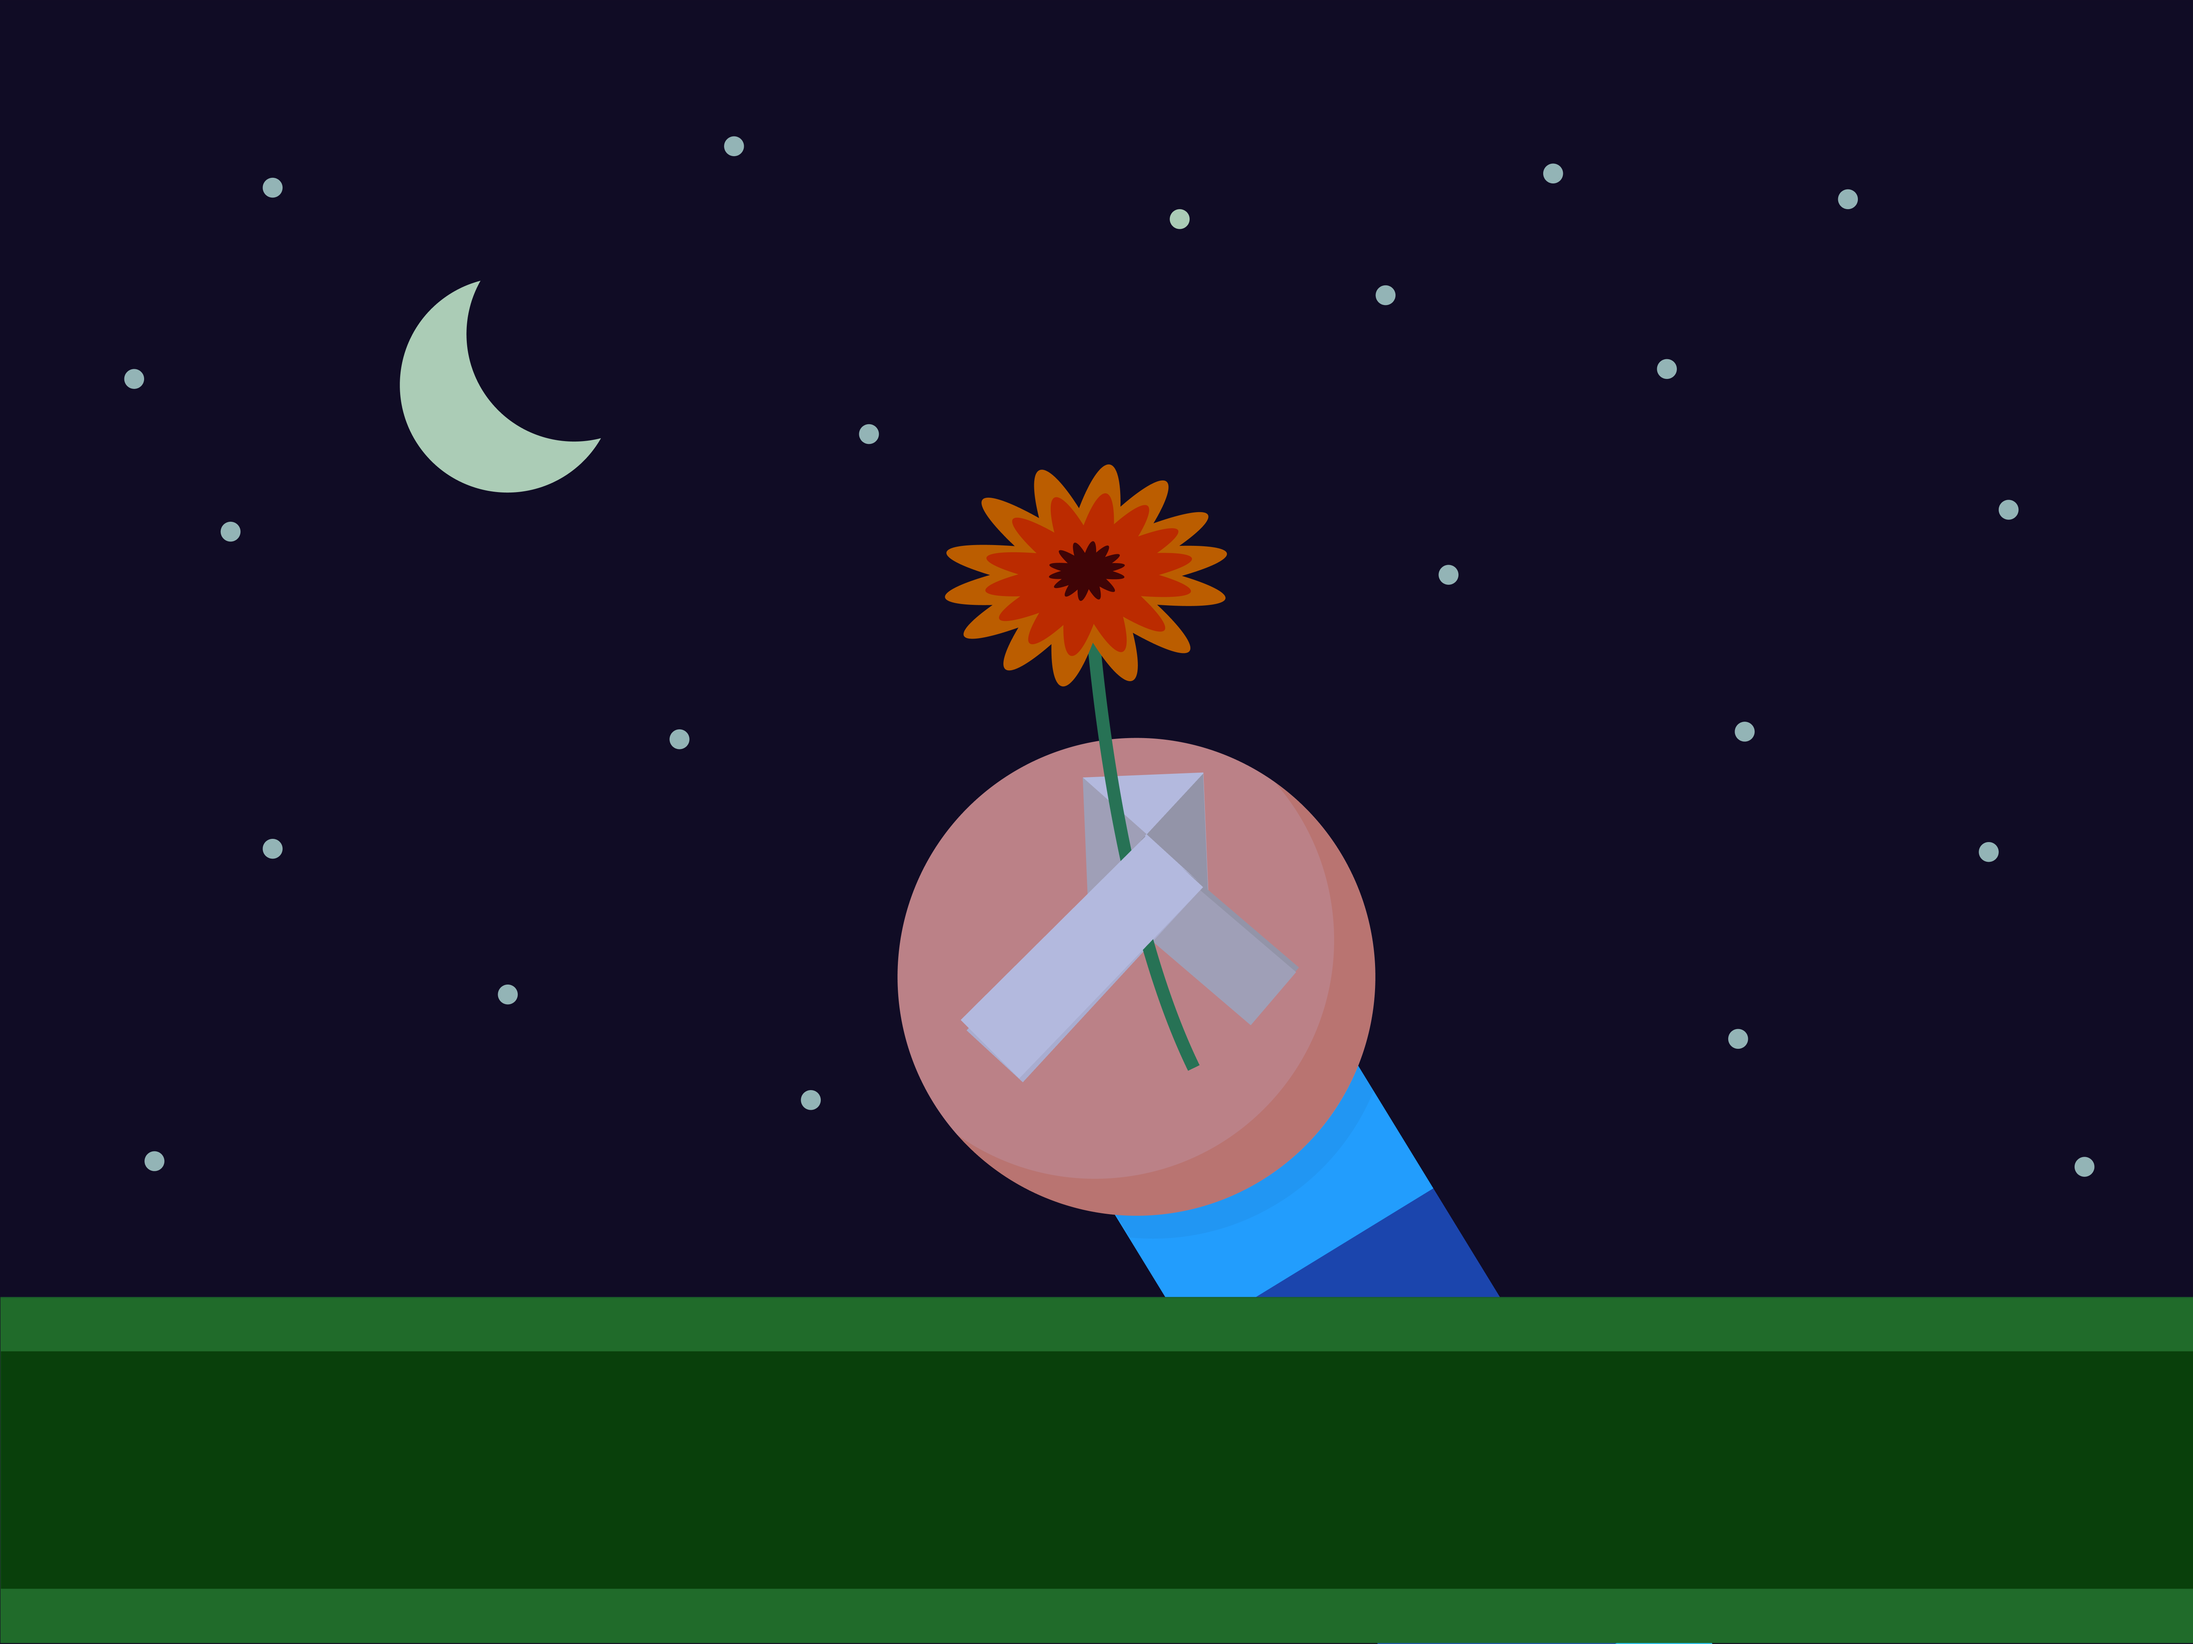
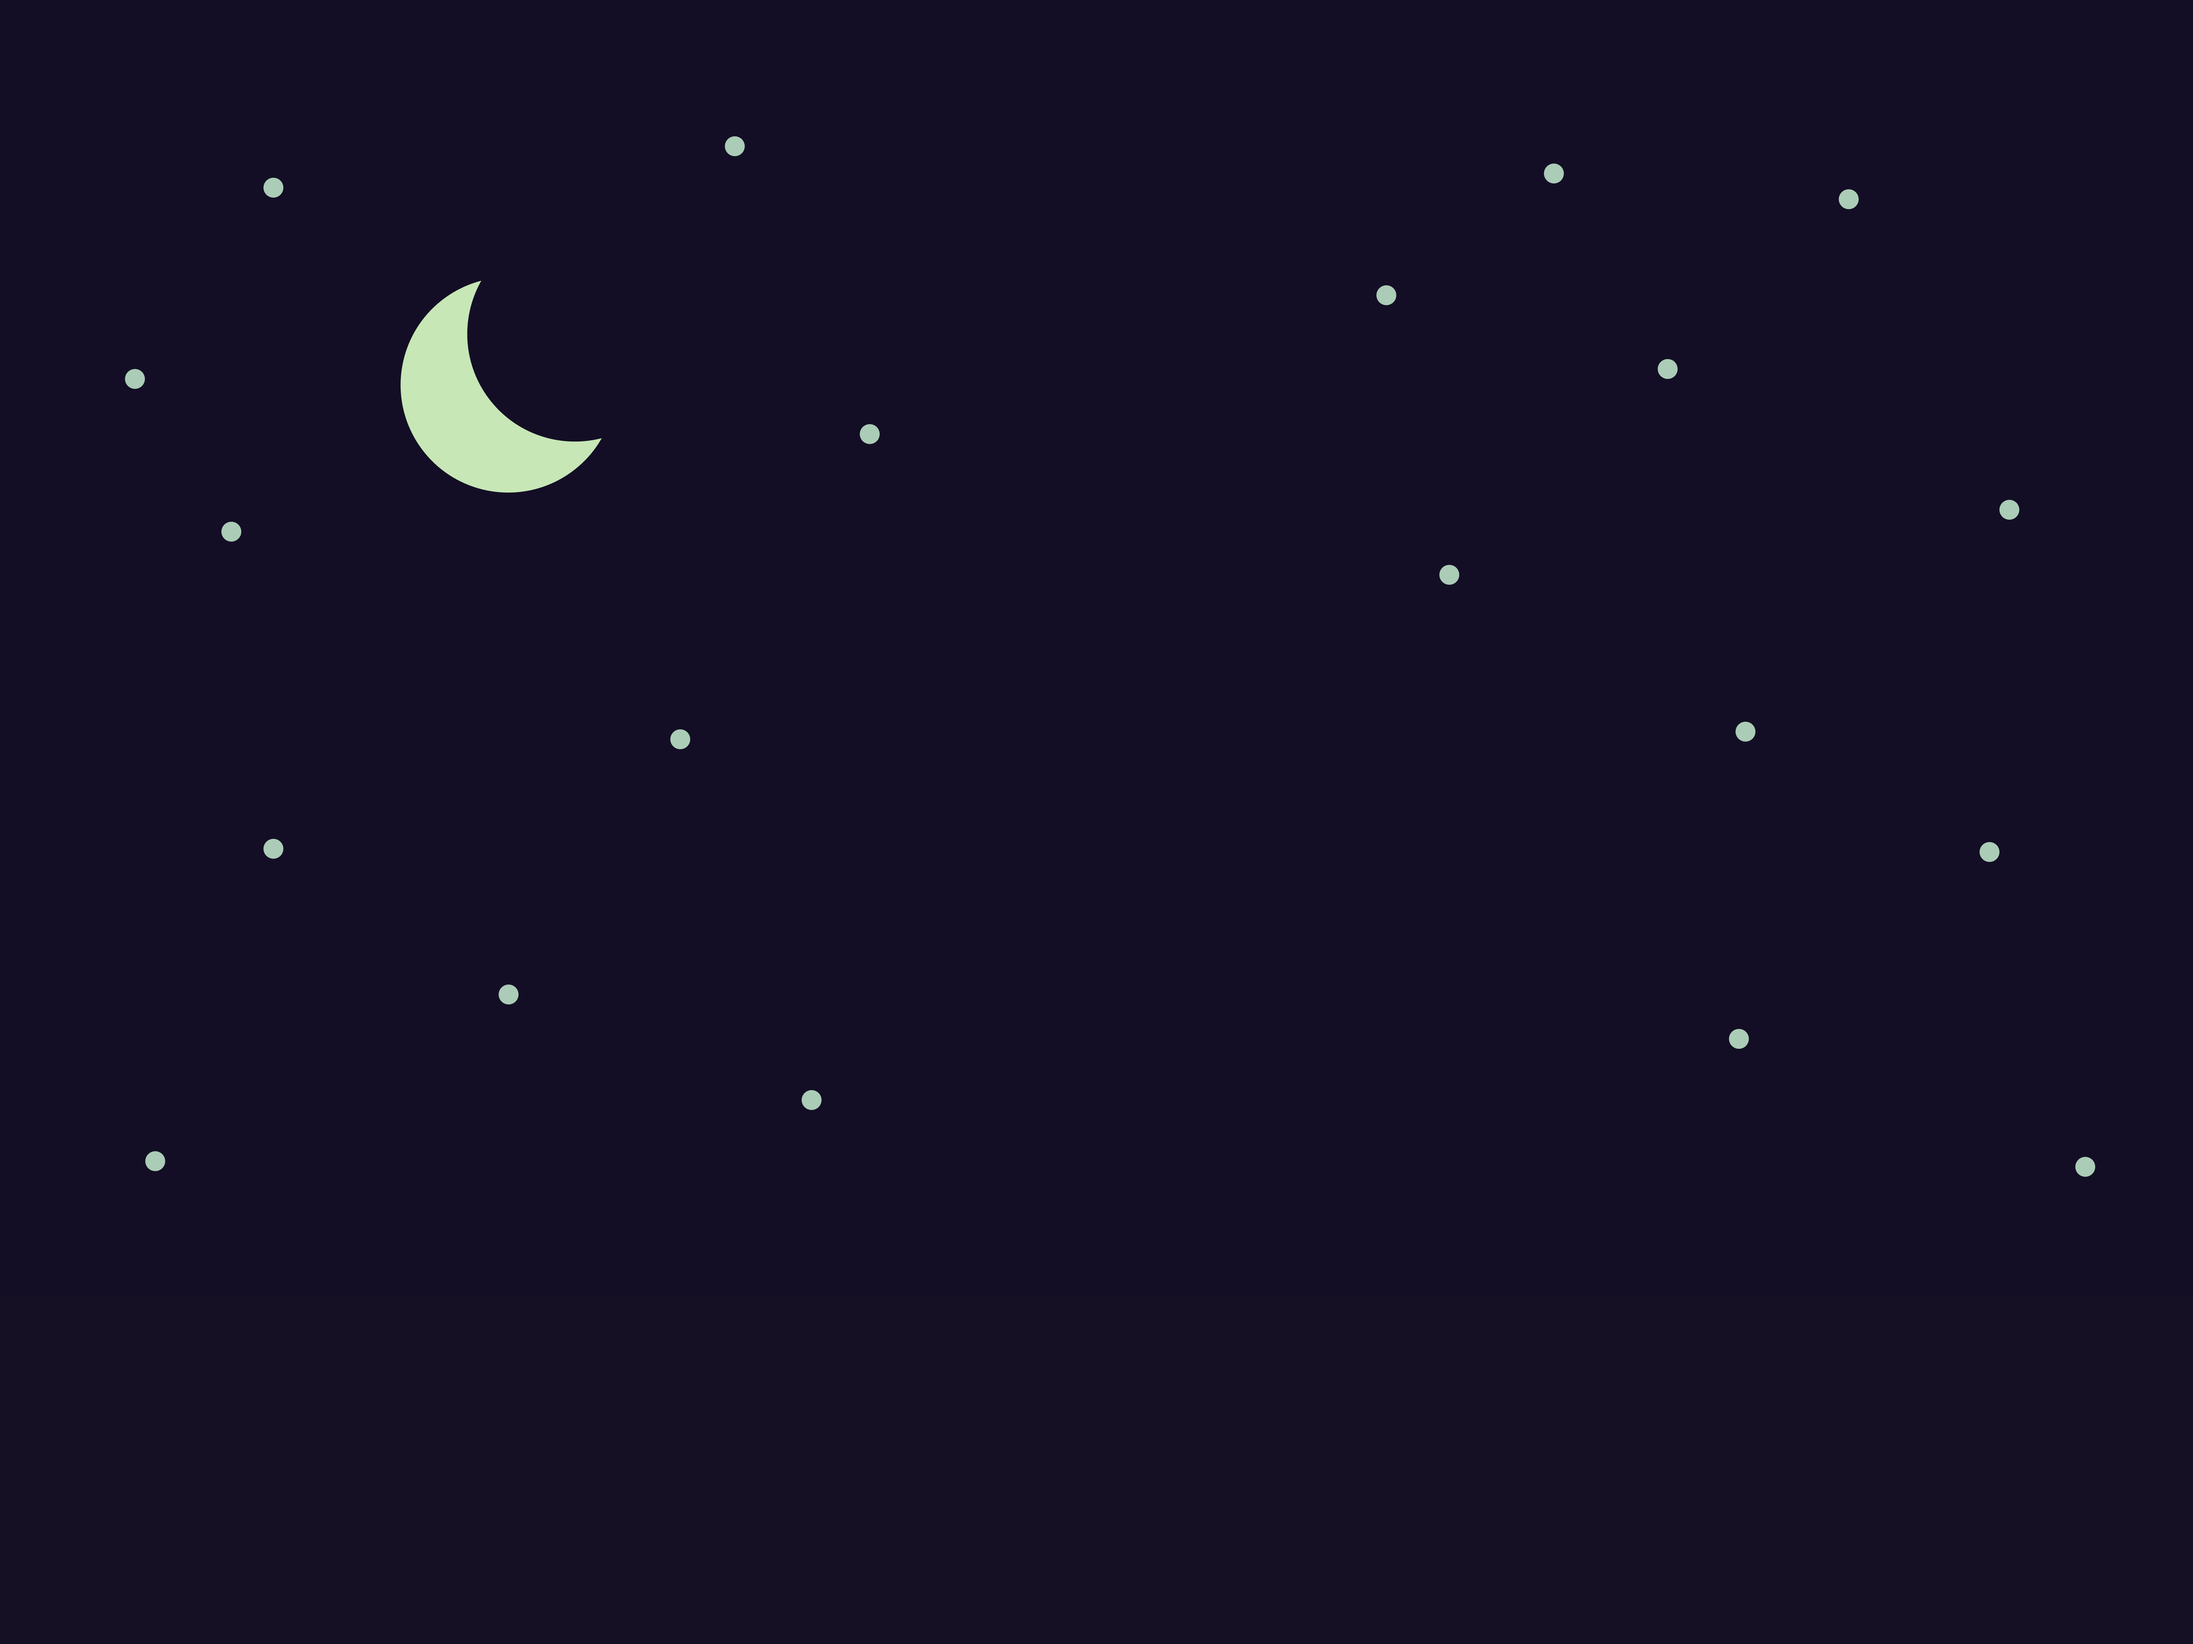
revert: restore page 68 (scene 66) to original marigold swaying and arm motion view

Changed region(s): [[0.0, 0.2812, 1.0, 1.0], [0.1556, 0.1562, 0.28, 0.3125]]

diff --git a/S1,S2 합친 버전.html b/S1,S2 합친 버전.html
@@ -6817,7 +6817,7 @@
     }
 
     /* ==============================================================
-       [S2 66장면] 밤하늘 아래 메리골드를 든 팔 씬 ("You: ‘반드시 오고야 말 행복’이라...")
+       [S2 66장면 / 68페이지] 밤하늘 아래 메리골드를 바라보는 주인공 ("You: ‘반드시 오고야 말 행복’이라...")
        ============================================================== */
     .scene-66 {
       position: absolute;
@@ -6867,25 +6867,21 @@
       to   { transform: rotate(3.5deg) translateZ(0); }
     }
 
-    /* ==============================================================
-       [S2 66장면 / 68페이지] 밤하늘 아래 메리골드를 바라보는 주인공 ("You: ‘반드시 오고야 말 행복’이라...")
-       ============================================================== */
-    .scene-66 {
+    /* 팔 그래픽: X365.75, Y228.31 배치 (메리골드 위 레이어 z-index: 10) */
+    .scene-66 .night-arm {
       position: absolute;
-      inset: 0;
-      width: 1366px;
-      height: 1024px;
-      overflow: hidden;
+      left: 365.75px;
+      top: 228.31px;
+      width: 1000.25px;
+      height: 795.75px;
+      pointer-events: none;
+      z-index: 10;
     }
 
-    .scene-66 .bg {
-      position: absolute;
-      inset: 0;
+    .scene-66 .night-arm img {
       width: 100%;
       height: 100%;
-      object-fit: fill;
       display: block;
-      pointer-events: none;
       image-rendering: -webkit-optimize-contrast;
       image-rendering: high-quality;
     }
@@ -10540,11 +10536,18 @@
     /* ==============================================================
        장면 66 (68페이지: 밤하늘 아래 메리골드를 바라보는 주인공)
        - 대사: 'You: ‘반드시 오고야 말 행복’이라...'
+       - 팔 그래픽(X365.75, Y228.31) + 팔 아래 주먹 쪽 메리골드 살랑임 모션
        ============================================================== */
     window.SCENES[66] = {
       mount(el, app) {
         el.innerHTML = `
           <img class="bg" src="01_backgrounds/66.png" alt="">
+          <div class="marigold">
+            <img src="02_motions/66_marigold.png" alt="메리골드">
+          </div>
+          <div class="night-arm">
+            <img src="02_motions/66_arm.png" alt="팔">
+          </div>
           <div class="scene-clear-filter"></div>
           <div class="dialog-wrap green">
             <img class="dialog-bg" src="02_motions/03 ,05, 07, 13, 36 Green text background .png" alt="">

diff --git a/index.html b/index.html
@@ -6817,7 +6817,7 @@
     }
 
     /* ==============================================================
-       [S2 66장면] 밤하늘 아래 메리골드를 든 팔 씬 ("You: ‘반드시 오고야 말 행복’이라...")
+       [S2 66장면 / 68페이지] 밤하늘 아래 메리골드를 바라보는 주인공 ("You: ‘반드시 오고야 말 행복’이라...")
        ============================================================== */
     .scene-66 {
       position: absolute;
@@ -6867,25 +6867,21 @@
       to   { transform: rotate(3.5deg) translateZ(0); }
     }
 
-    /* ==============================================================
-       [S2 66장면 / 68페이지] 밤하늘 아래 메리골드를 바라보는 주인공 ("You: ‘반드시 오고야 말 행복’이라...")
-       ============================================================== */
-    .scene-66 {
+    /* 팔 그래픽: X365.75, Y228.31 배치 (메리골드 위 레이어 z-index: 10) */
+    .scene-66 .night-arm {
       position: absolute;
-      inset: 0;
-      width: 1366px;
-      height: 1024px;
-      overflow: hidden;
+      left: 365.75px;
+      top: 228.31px;
+      width: 1000.25px;
+      height: 795.75px;
+      pointer-events: none;
+      z-index: 10;
     }
 
-    .scene-66 .bg {
-      position: absolute;
-      inset: 0;
+    .scene-66 .night-arm img {
       width: 100%;
       height: 100%;
-      object-fit: fill;
       display: block;
-      pointer-events: none;
       image-rendering: -webkit-optimize-contrast;
       image-rendering: high-quality;
     }
@@ -10540,11 +10536,18 @@
     /* ==============================================================
        장면 66 (68페이지: 밤하늘 아래 메리골드를 바라보는 주인공)
        - 대사: 'You: ‘반드시 오고야 말 행복’이라...'
+       - 팔 그래픽(X365.75, Y228.31) + 팔 아래 주먹 쪽 메리골드 살랑임 모션
        ============================================================== */
     window.SCENES[66] = {
       mount(el, app) {
         el.innerHTML = `
           <img class="bg" src="01_backgrounds/66.png" alt="">
+          <div class="marigold">
+            <img src="02_motions/66_marigold.png" alt="메리골드">
+          </div>
+          <div class="night-arm">
+            <img src="02_motions/66_arm.png" alt="팔">
+          </div>
           <div class="scene-clear-filter"></div>
           <div class="dialog-wrap green">
             <img class="dialog-bg" src="02_motions/03 ,05, 07, 13, 36 Green text background .png" alt="">
